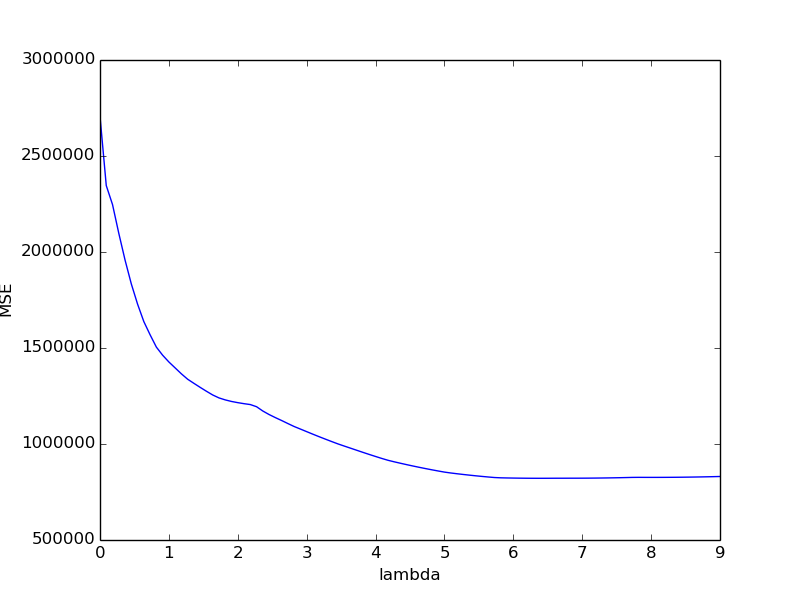
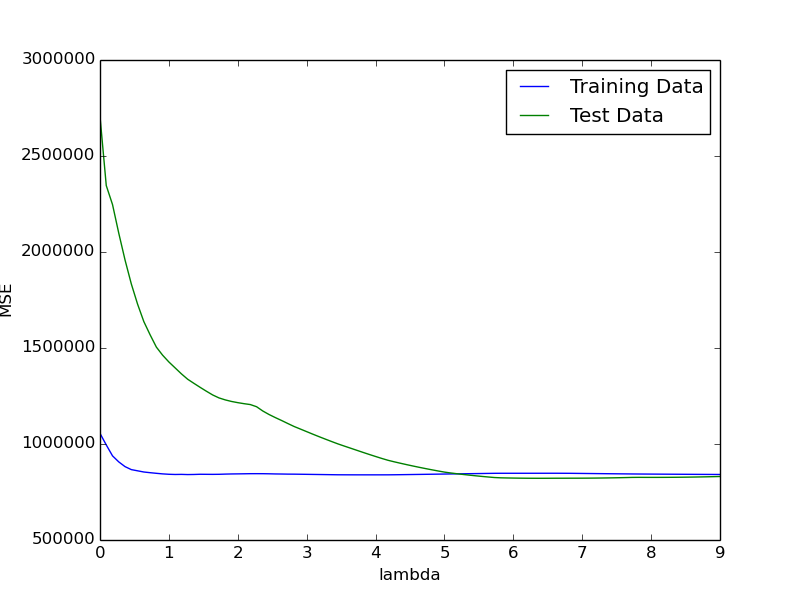
Added test/train to plot

diff --git a/week5/lasso.py b/week5/lasso.py
@@ -35,13 +35,15 @@ X_train, y_train = X[:n_samples // 2], y[:n_samples // 2]
 X_test, y_test = X[n_samples // 2:], y[n_samples // 2:]
 
 plt.figure(1)
-mse=[]
+mse_test=[]
+mse_train=[]
 vec_lambda=np.linspace(0,9,100)
 for alpha in vec_lambda:
     lasso = Lasso(alpha=alpha)
     y_pred = lasso.fit(X_train, y_train).predict(X_test)
     #s = calc_s(y_pred, alpha)
-    mse.append(calc_mse(y_test,y_pred,X_test))
+    mse_test.append(calc_mse(y_test,y_pred,X_test))
+    mse_train.append(calc_mse(y_train,y_pred,X_train))
     if alpha%2==0 and alpha!=0:
         plt.plot(lasso.coef_, label="Lambda: "+str(alpha))
     
@@ -50,7 +52,9 @@ plt.legend(loc='upper right')
 plt.savefig('result_lasso_coef.png', format='png')
 
 plt.figure(2)
-plt.plot(vec_lambda, mse)
+plt.plot(vec_lambda, mse_train, label='Training Data')
+plt.plot(vec_lambda, mse_test, label='Test Data')
 plt.ylabel('MSE')
 plt.xlabel('lambda')
+plt.legend(loc='upper right')
 plt.savefig('result_lasso_mse.png', format='png')
